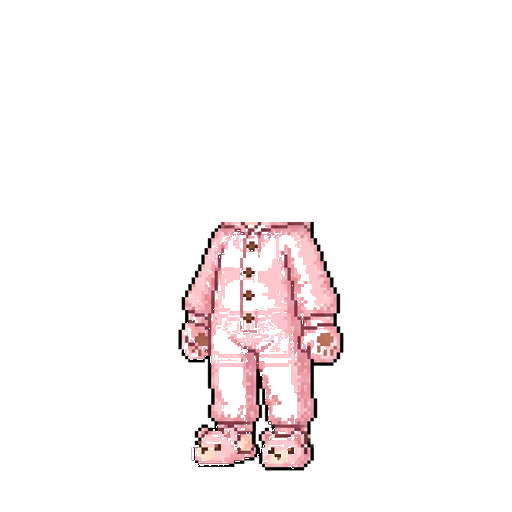
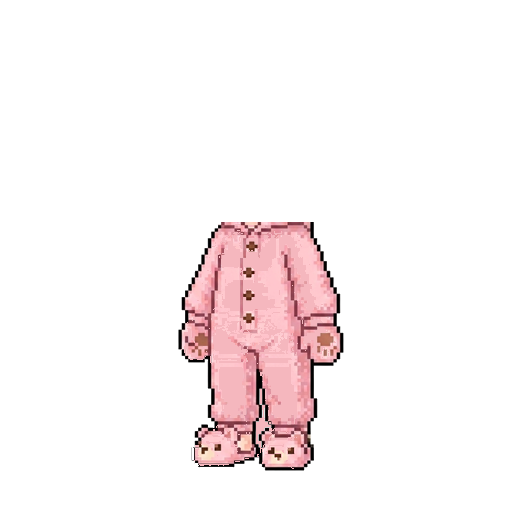
아바타: 구매 전 미리 입어보기 기능 + 곰돌이 잠옷 하의 비침 수정
- 상점 아이템 탭하면 즉시 아바타에 미리보기(코인 없어도 가능)
- 실제 착용값은 안 건드리는 임시 렌더, 구매 시 자동 착용
- 카테고리/탭 전환·재탭 시 미리보기 해제, 미리보기 배지 표시
- 곰돌이 잠옷 하의 내부 투명 구멍을 단색으로 채워 비침 제거

Changed region(s): [[0.375, 0.4375, 0.6562, 0.9062], [0.4062, 0.8438, 0.4688, 0.875], [0.3438, 0.625, 0.375, 0.6875]]

diff --git a/avatar.js b/avatar.js
@@ -17,6 +17,7 @@ let state = null;
 let docRef = null;
 let currentTab = 'shop';
 let currentCategory = 'outfit';
+let previewId = null; // 상점에서 미리보기(구매 전 입어보기) 중인 아이템 id. currentCategory 슬롯에 임시 적용.
 
 // 내 아바타와 쓴 금액만 콕 집어 저장한다.
 // (문서 전체를 덮어쓰지 않으므로 선생님이 동시에 점수를 바꿔도 서로 안 지워짐)
@@ -94,12 +95,21 @@ function render() {
 
 function renderAvatar() {
   const avatar = state.avatars[studentIdx];
+  // 상점에서 미리보기 중이면, 실제 착용값(avatar.equipped)은 그대로 두고 임시 사본으로만 그린다.
+  let eq = avatar.equipped;
+  if (previewId && currentTab === 'shop') {
+    eq = Object.assign({}, avatar.equipped);
+    eq[currentCategory] = previewId;
+  }
   const baseImg = document.getElementById('avatarBaseImg');
   const outfitImg = document.getElementById('avatarOutfitImg');
   const bgImg = document.getElementById('avatarBgImg');
   baseImg.src = GENDER_IMAGES[avatar.gender];
 
-  const bg = BACKGROUNDS.find(b => b.id === avatar.equipped.background);
+  document.getElementById('previewBadge').style.display =
+    (previewId && currentTab === 'shop') ? 'block' : 'none';
+
+  const bg = BACKGROUNDS.find(b => b.id === eq.background);
   if (bg && bg.image) {
     bgImg.src = bg.image;
     bgImg.style.display = 'block';
@@ -108,23 +118,23 @@ function renderAvatar() {
     bgImg.style.display = 'none';
   }
 
-  const item = ITEMS.find(i => i.id === avatar.equipped.outfit);
+  const item = ITEMS.find(i => i.id === eq.outfit);
   // if equipped outfit has no image for this gender (e.g. after switching gender), fall back to basic
   if (item && item.id !== 'outfit_basic' && item.images[avatar.gender]) {
     outfitImg.src = item.images[avatar.gender];
     outfitImg.style.display = 'block';
   } else {
-    if (!item || !item.images[avatar.gender]) avatar.equipped.outfit = 'outfit_basic';
+    if (!item || !item.images[avatar.gender]) eq.outfit = 'outfit_basic';
     outfitImg.src = '';
     outfitImg.style.display = 'none';
   }
 
   // 머리 레이어 (옷 위에 그림). 착용한 머리가 이 성별 이미지를 안 가지면 성별 기본 머리로 되돌림.
   const hairImg = document.getElementById('avatarHairImg');
-  let hs = HAIRSTYLES.find(h => h.id === avatar.equipped.hair);
+  let hs = HAIRSTYLES.find(h => h.id === eq.hair);
   if (!hs || !hs.images[avatar.gender]) {
-    avatar.equipped.hair = defaultHairId(avatar.gender);
-    hs = HAIRSTYLES.find(h => h.id === avatar.equipped.hair);
+    eq.hair = defaultHairId(avatar.gender);
+    hs = HAIRSTYLES.find(h => h.id === eq.hair);
   }
   if (hs && hs.images[avatar.gender]) {
     hairImg.src = hs.images[avatar.gender];
@@ -134,7 +144,7 @@ function renderAvatar() {
     hairImg.style.display = 'none';
   }
 
-  const fr = FRAMES.find(f => f.id === avatar.equipped.frame);
+  const fr = FRAMES.find(f => f.id === eq.frame);
   const corners = ['frameTL', 'frameTR', 'frameBL', 'frameBR'].map(id => document.getElementById(id));
   corners.forEach(el => {
     if (fr && fr.image) {
@@ -156,7 +166,7 @@ function renderAvatar() {
     stage.style.borderStyle = 'none';
   }
 
-  const title = resolveTitle(avatar);
+  const title = resolveTitle({ equipped: eq });
   const titlePreview = document.getElementById('titlePreview');
   if (title) {
     document.getElementById('titleIcon').src = title.image;
@@ -216,7 +226,11 @@ function renderItemGrid() {
     const owned = avatar.inventory.includes(item.id);
     const isEquipped = equippedId === item.id;
     const card = document.createElement('div');
-    card.className = 'item-card' + (isEquipped ? ' equipped' : '');
+    const previewing = currentTab === 'shop' && previewId === item.id;
+    card.className = 'item-card' + (isEquipped ? ' equipped' : '') + (previewing ? ' previewing' : '');
+    card.dataset.id = item.id;
+    // 상점에서 아직 안 산 아이템은 카드를 누르면 아바타에 미리 입혀본다.
+    if (currentTab === 'shop' && !owned) card.classList.add('previewable');
 
     let actionHtml = '';
     if (currentTab === 'shop') {
@@ -243,11 +257,25 @@ function renderItemGrid() {
   });
 
   grid.querySelectorAll('[data-action="buy"]').forEach(btn => {
-    btn.addEventListener('click', () => buyItem(btn.dataset.id));
+    btn.addEventListener('click', (e) => { e.stopPropagation(); buyItem(btn.dataset.id); });
   });
   grid.querySelectorAll('[data-action="equip"]').forEach(btn => {
-    btn.addEventListener('click', () => equipItem(btn.dataset.id));
+    btn.addEventListener('click', (e) => { e.stopPropagation(); equipItem(btn.dataset.id); });
   });
+  grid.querySelectorAll('.item-card.previewable').forEach(card => {
+    card.addEventListener('click', () => togglePreview(card.dataset.id));
+  });
+}
+
+// 미리보기 켜기/끄기 (같은 아이템을 다시 누르면 해제)
+function togglePreview(id) {
+  previewId = (previewId === id) ? null : id;
+  render();
+  bounceAvatar();
+}
+
+function clearPreview() {
+  if (previewId) previewId = null;
 }
 
 function buyItem(id) {
@@ -264,6 +292,8 @@ function buyItem(id) {
   if (!state.spent) state.spent = {};
   state.spent[studentIdx] = (state.spent[studentIdx] || 0) + item.price;
   avatar.inventory.push(id);
+  equipSlot(avatar, id); // 미리보던 아이템을 사면 바로 입은 상태로 유지
+  clearPreview();
   saveAvatarState();
   flashHeart();
   document.getElementById('heartCount').textContent = availableCoins(studentIdx);
@@ -271,20 +301,20 @@ function buyItem(id) {
   render();
 }
 
+// 카테고리에 맞는 착용 슬롯에 아이템 적용
+function equipSlot(avatar, id) {
+  if (BACKGROUNDS.some(b => b.id === id)) avatar.equipped.background = id;
+  else if (FRAMES.some(f => f.id === id)) avatar.equipped.frame = id;
+  else if (TITLES.some(t => t.id === id)) avatar.equipped.title = id;
+  else if (HAIRSTYLES.some(h => h.id === id)) avatar.equipped.hair = id;
+  else avatar.equipped.outfit = id;
+}
+
 function equipItem(id) {
   const item = findCatalogItem(id);
   const avatar = state.avatars[studentIdx];
-  if (BACKGROUNDS.some(b => b.id === id)) {
-    avatar.equipped.background = id;
-  } else if (FRAMES.some(f => f.id === id)) {
-    avatar.equipped.frame = id;
-  } else if (TITLES.some(t => t.id === id)) {
-    avatar.equipped.title = id;
-  } else if (HAIRSTYLES.some(h => h.id === id)) {
-    avatar.equipped.hair = id;
-  } else {
-    avatar.equipped.outfit = id;
-  }
+  equipSlot(avatar, id);
+  clearPreview();
   saveAvatarState();
   bounceAvatar();
   showToast(`✨ ${item.name} 적용!`);
@@ -305,15 +335,17 @@ document.getElementById('backBtn2').addEventListener('click', () => location.hre
 document.querySelectorAll('.cat-tab').forEach(btn => {
   btn.addEventListener('click', () => {
     currentCategory = btn.dataset.cat;
+    clearPreview();
     document.querySelectorAll('.cat-tab').forEach(b => b.classList.toggle('active', b === btn));
-    renderItemGrid();
+    render();
   });
 });
 document.querySelectorAll('.mode-tab').forEach(btn => {
   btn.addEventListener('click', () => {
     currentTab = btn.dataset.tab;
+    clearPreview();
     document.querySelectorAll('.mode-tab').forEach(b => b.classList.toggle('active', b === btn));
-    renderItemGrid();
+    render();
   });
 });
 

diff --git a/avatar.css b/avatar.css
@@ -123,6 +123,25 @@
     border-radius: 12px;
     overflow: hidden;
   }
+  #previewBadge {
+    position: absolute;
+    top: 6px; left: 50%;
+    transform: translateX(-50%);
+    z-index: 5;
+    background: #2AA8F0;
+    color: #fff;
+    font-size: 12px;
+    font-weight: 900;
+    padding: 3px 12px;
+    border-radius: 999px;
+    box-shadow: 0 2px 0 #1A7CB8;
+    white-space: nowrap;
+    animation: previewPulse 1.3s ease-in-out infinite;
+  }
+  @keyframes previewPulse {
+    0%, 100% { opacity: 0.85; }
+    50% { opacity: 1; }
+  }
   #avatarStage.bounce { animation: avatarBounce 0.45s ease; }
   @keyframes avatarBounce {
     0%, 100% { transform: translateY(0) scaleY(1); }
@@ -226,6 +245,12 @@
     text-align: center;
   }
   .item-card.equipped { border-color: var(--gold); box-shadow: 0 0 0 2px var(--gold) inset; }
+  .item-card.previewable { cursor: pointer; }
+  .item-card.previewable:hover { border-color: #5BC8FF; transform: translateY(-2px); }
+  .item-card.previewing {
+    border-color: #2AA8F0;
+    box-shadow: 0 0 0 3px #5BC8FF inset, 0 0 10px rgba(91,200,255,0.6);
+  }
   .item-icon {
     width: 72px;
     height: 72px;

diff --git a/avatar.html b/avatar.html
@@ -23,6 +23,7 @@
   <div id="avatarPanel">
     <div class="panel-title">내 아바타</div>
     <div id="avatarStage">
+      <div id="previewBadge" style="display:none;">👀 미리보기</div>
       <div id="avatarStageInner">
         <img id="avatarBgImg" src="" alt="" style="display:none;">
         <img id="avatarBaseImg" src="" alt="내 아바타">